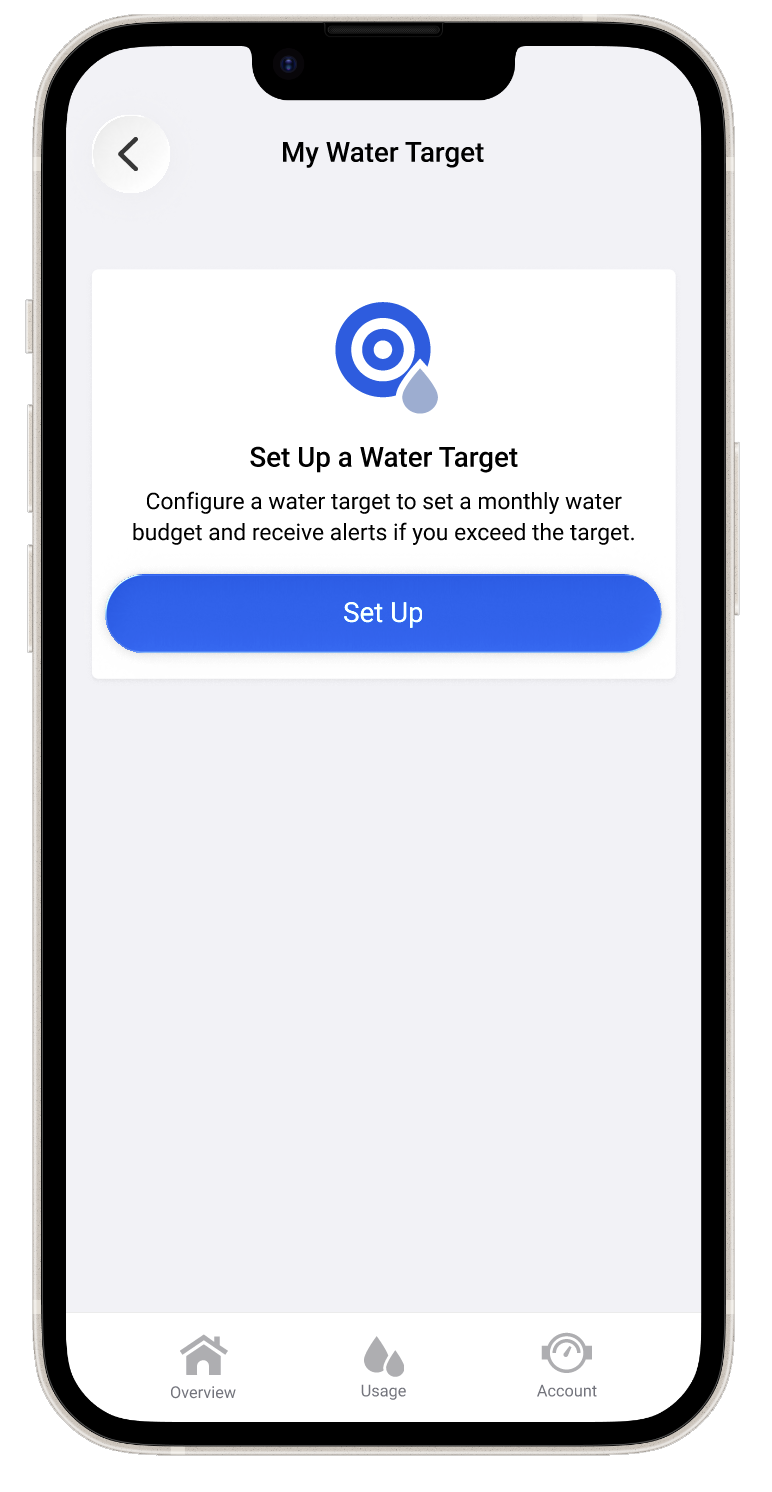
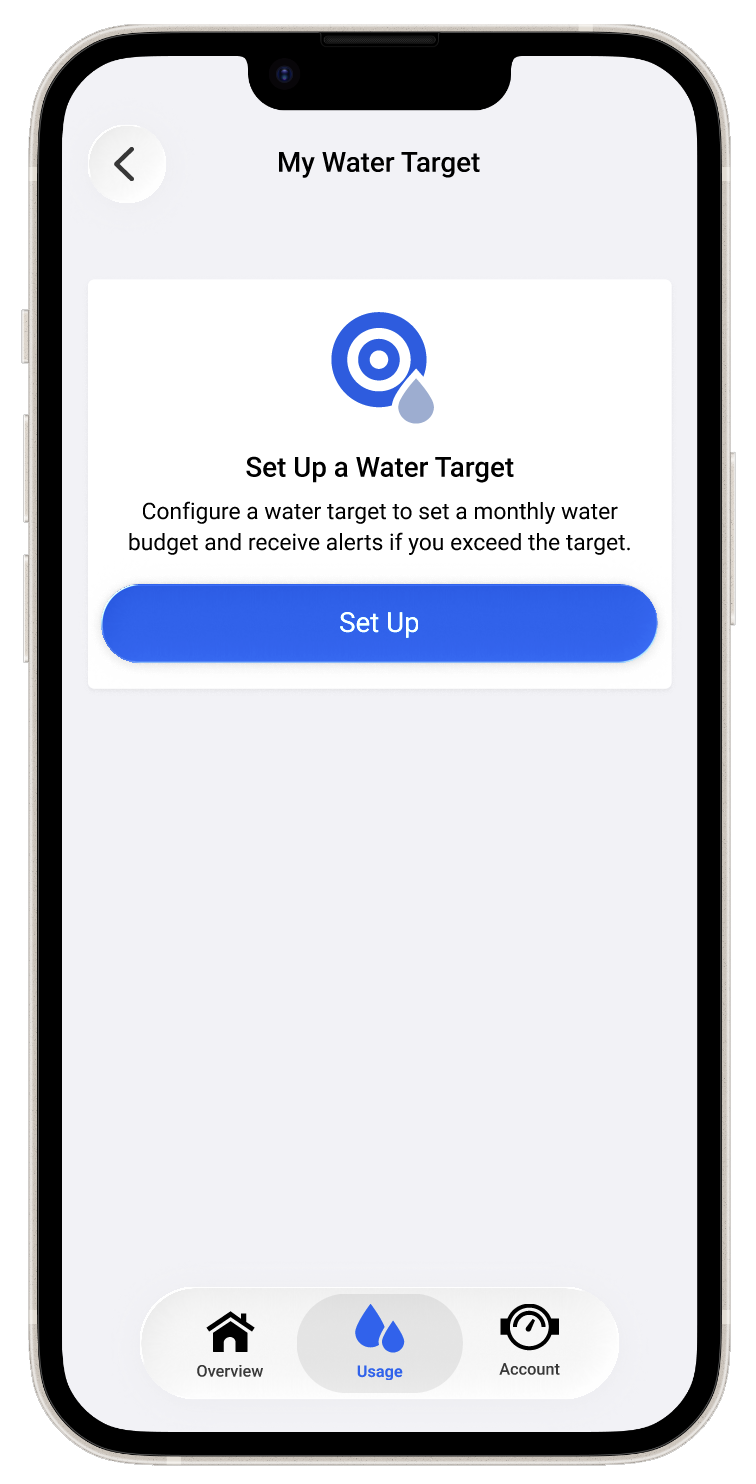
updated images with new liquid glass nav

Changed region(s): [[0.0304, 0.0, 0.9735, 0.9919], [0.1521, 0.093, 0.1825, 0.124], [0.1217, 0.403, 0.1521, 0.434]]

diff --git a/case-study-eyeonwater.html b/case-study-eyeonwater.html
@@ -311,36 +311,14 @@
         </div>
       </div>
 
-      <!-- Right: decorative visual -->
+      <!-- Right: mockup images -->
       <div class="cs-hero-visual">
         <div class="cs-hero-visual-glow" aria-hidden="true"></div>
-        <!-- Back screen: blue-toned, rotated left -->
-        <div class="eow-screen-back" aria-hidden="true">
-          <div class="eow-screen-back-inner">
-            <svg width="48" height="48" viewBox="0 0 48 48" fill="none" xmlns="http://www.w3.org/2000/svg">
-              <path d="M24 6 C24 6 10 20 10 30 C10 37.7 16.3 44 24 44 C31.7 44 38 37.7 38 30 C38 20 24 6 24 6Z" fill="rgba(91,159,204,0.35)" stroke="rgba(91,159,204,0.6)" stroke-width="1.5"/>
-            </svg>
-            <div style="width:80%;height:6px;border-radius:3px;background:rgba(91,159,204,0.2);overflow:hidden;">
-              <div style="width:65%;height:100%;background:rgba(91,159,204,0.5);border-radius:3px;"></div>
-            </div>
-            <div style="width:60%;height:4px;border-radius:2px;background:rgba(91,159,204,0.15);margin-top:2px;"></div>
-          </div>
-        </div>
-        <!-- Front screen: warm-toned, rotated right -->
-        <div class="eow-screen-front" aria-hidden="true">
-          <div class="eow-screen-front-inner">
-            <svg class="eow-ring-svg" viewBox="0 0 110 110" fill="none" xmlns="http://www.w3.org/2000/svg">
-              <circle cx="55" cy="55" r="44" stroke="rgba(212,135,90,0.18)" stroke-width="8"/>
-              <circle cx="55" cy="55" r="44" stroke="rgba(212,135,90,0.55)" stroke-width="8"
-                stroke-dasharray="276.5" stroke-dashoffset="97"
-                stroke-linecap="round"
-                transform="rotate(-90 55 55)"/>
-              <path d="M55 22 C55 22 38 38 38 50 C38 59.4 45.6 67 55 67 C64.4 67 72 59.4 72 50 C72 38 55 22 55 22Z"
-                fill="rgba(212,135,90,0.2)" stroke="rgba(212,135,90,0.55)" stroke-width="1.2"/>
-              <text x="55" y="87" text-anchor="middle" font-family="DM Sans, sans-serif" font-size="11" font-weight="500" fill="rgba(160,96,48,0.7)">65% of target</text>
-            </svg>
-            <p class="eow-ring-label">Water Target</p>
-          </div>
+        <!-- Mockups: evenly spaced side by side -->
+        <div style="display:flex;align-items:center;justify-content:center;gap:1rem;width:100%;height:100%;padding:1.5rem 0;">
+          <img src="case-studies/water-targets/mockup1.png" alt="Water Targets mockup" style="width:38%;filter:drop-shadow(0 8px 24px rgba(42,32,32,0.16));" />
+          <img src="case-studies/water-targets/mockup2.png" alt="Water Targets mockup" style="width:38%;filter:drop-shadow(0 8px 24px rgba(42,32,32,0.16));" />
+          <img src="case-studies/water-targets/mockup4.png" alt="Water Targets mockup" style="width:38%;filter:drop-shadow(0 8px 24px rgba(42,32,32,0.16));" />
         </div>
         <!-- Corner sparkles -->
         <svg style="position:absolute;top:6%;right:8%;width:14px;height:14px;animation:sparkle-float 4s ease-in-out infinite;" viewBox="0 0 24 24" fill="none" aria-hidden="true">

diff --git a/index.html b/index.html
@@ -143,9 +143,11 @@
 
         <!-- Card 1: EyeOnWater -->
         <article
-          class="project-card project-card--disabled reveal reveal-delay-1"
+          class="project-card reveal reveal-delay-1"
+          data-href="case-study-eyeonwater.html"
           role="article"
-          aria-label="Water Budgets for EyeOnWater — coming soon"
+          aria-label="Water Budgets for EyeOnWater case study"
+          tabindex="0"
         >
           <div class="card-body">
             <span class="card-number">01</span>
@@ -155,7 +157,7 @@
             </div>
             <h3 class="card-title">Water Budgets for EyeOnWater</h3>
             <p class="card-desc">Increasing conservation efforts by creating Water Targets for users.</p>
-            <span class="card-coming-soon">Coming soon</span>
+            <a href="case-study-eyeonwater.html" class="card-link" aria-label="View Water Budgets for EyeOnWater case study">View case study →</a>
           </div>
           <div class="card-visual">
             <div class="card-visual-inner card-gradient-1">
